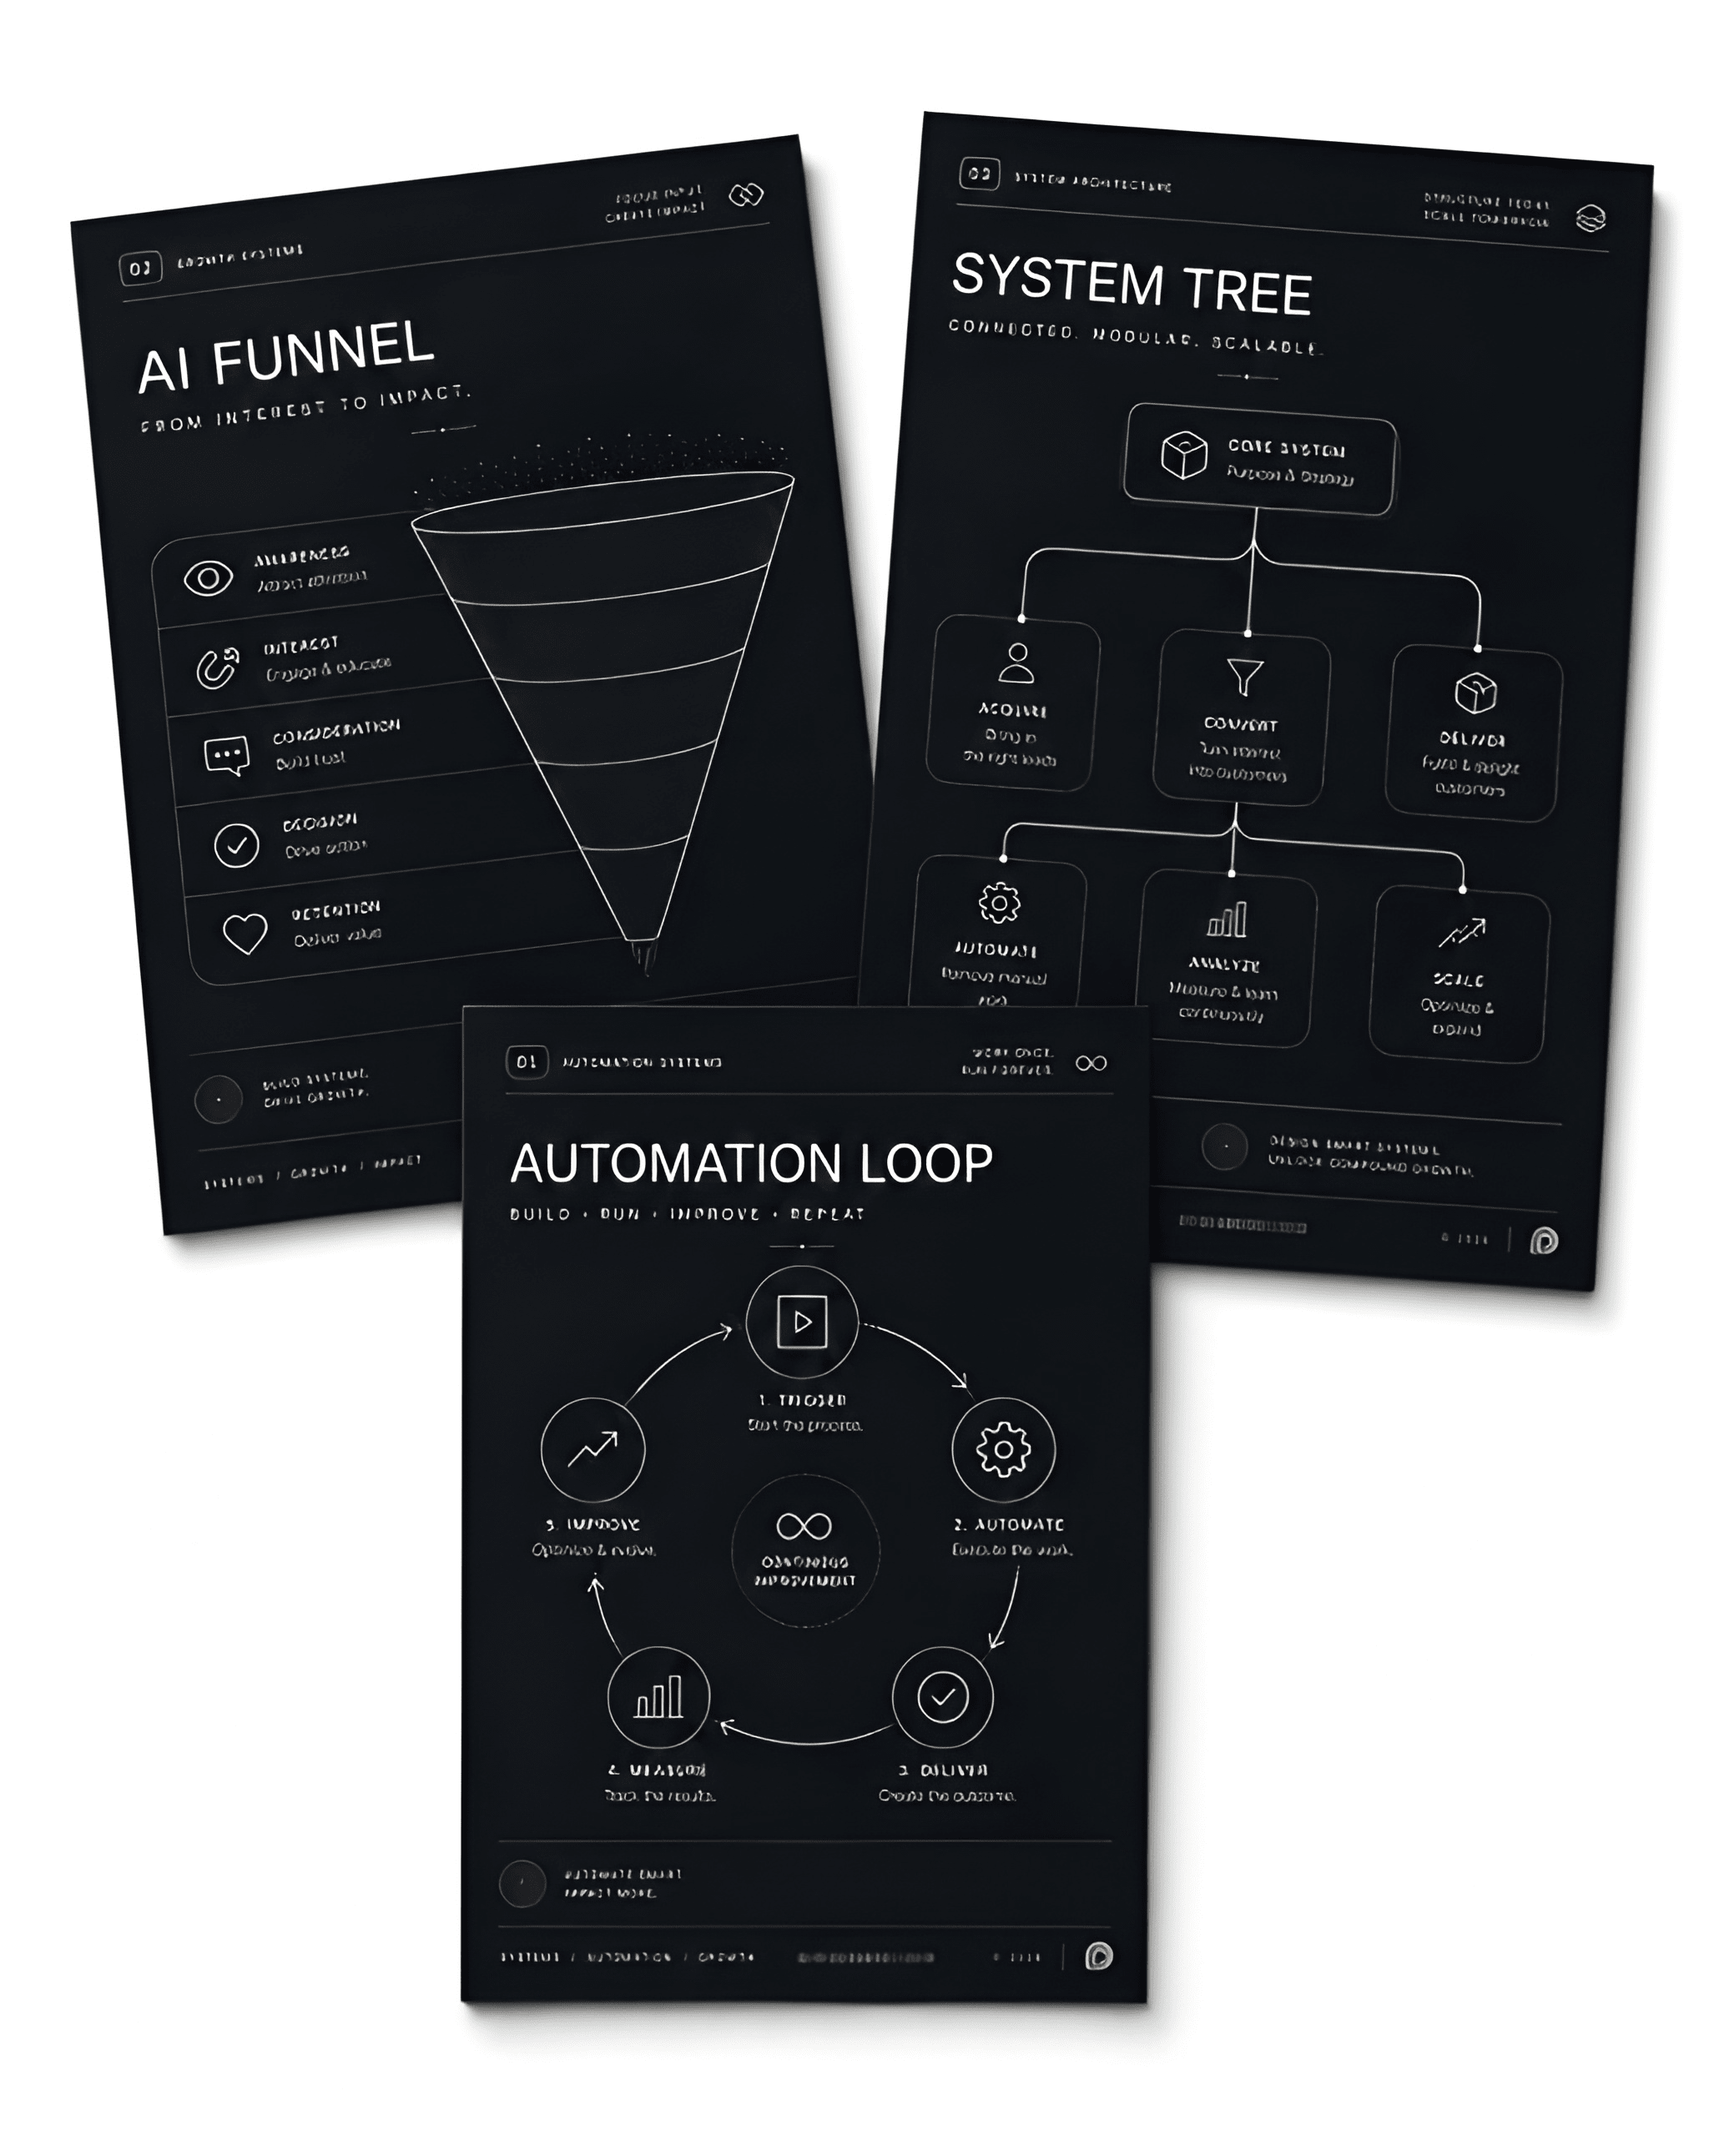
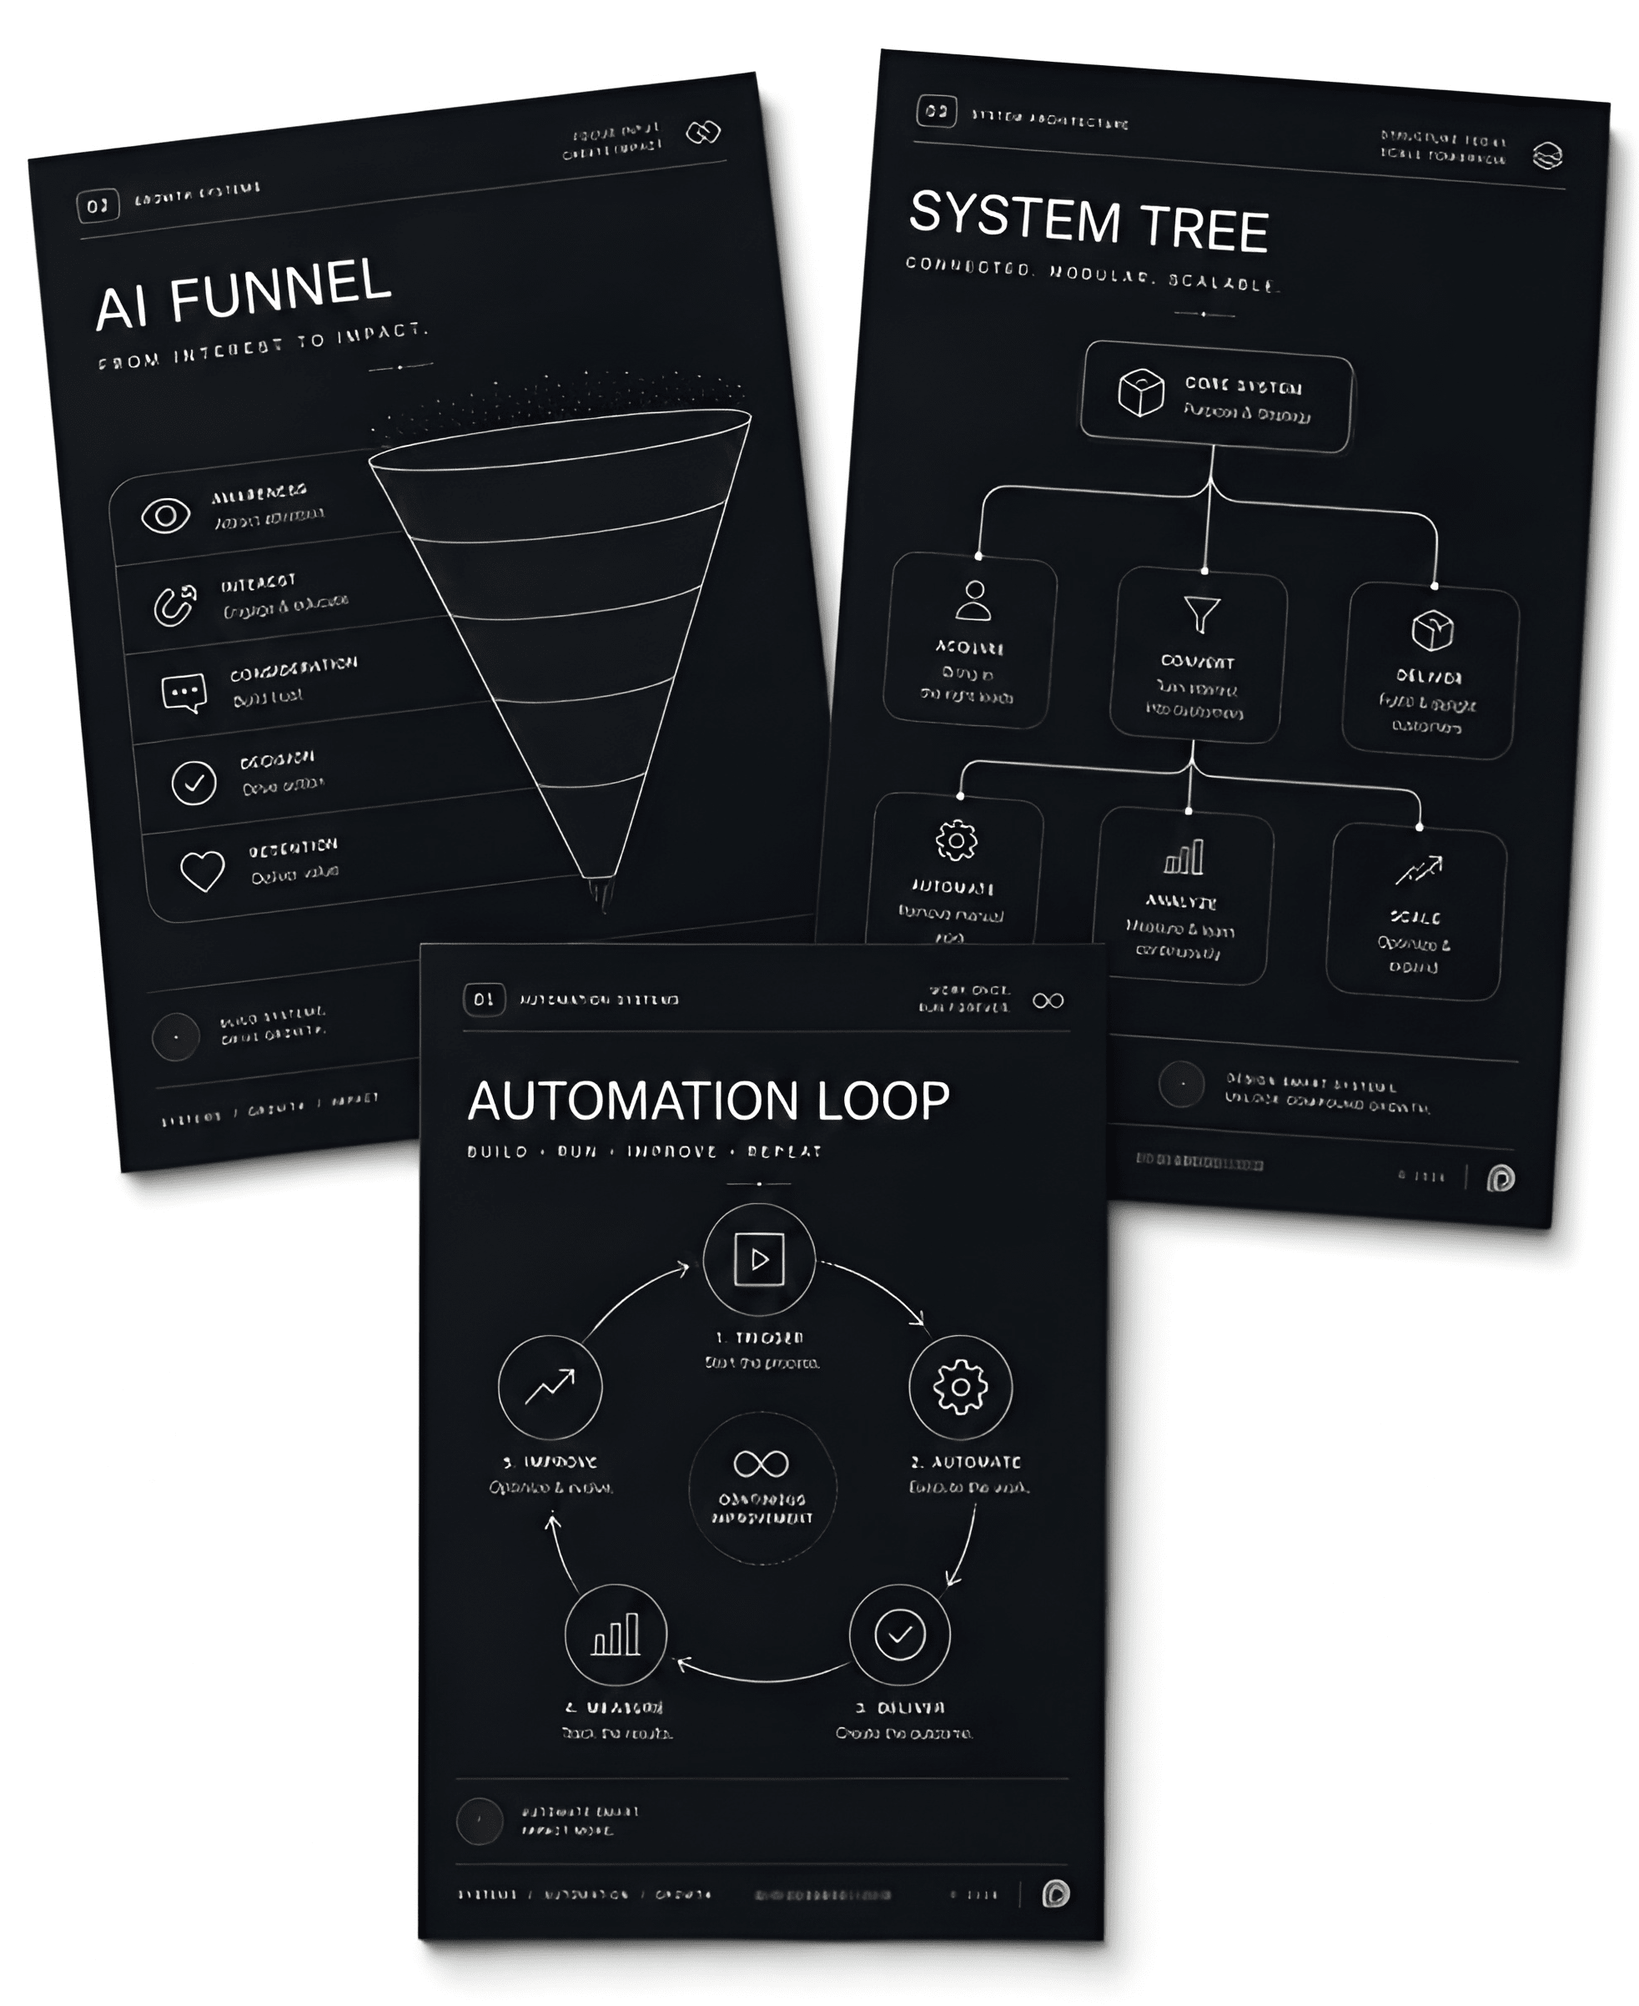
feat: update image again

diff --git a/app/newsletter/page.tsx b/app/newsletter/page.tsx
@@ -145,7 +145,7 @@ export default function NewsletterPage() {
                 </div>
               </div>
 
-              <div className="flex items-center justify-center bg-white p-10 md:p-12 lg:p-14">
+              <div className="flex items-center justify-center bg-[#f4f4f4] p-10 md:p-12 lg:p-14">
                 <NewsletterImage />
               </div>
             </div>
